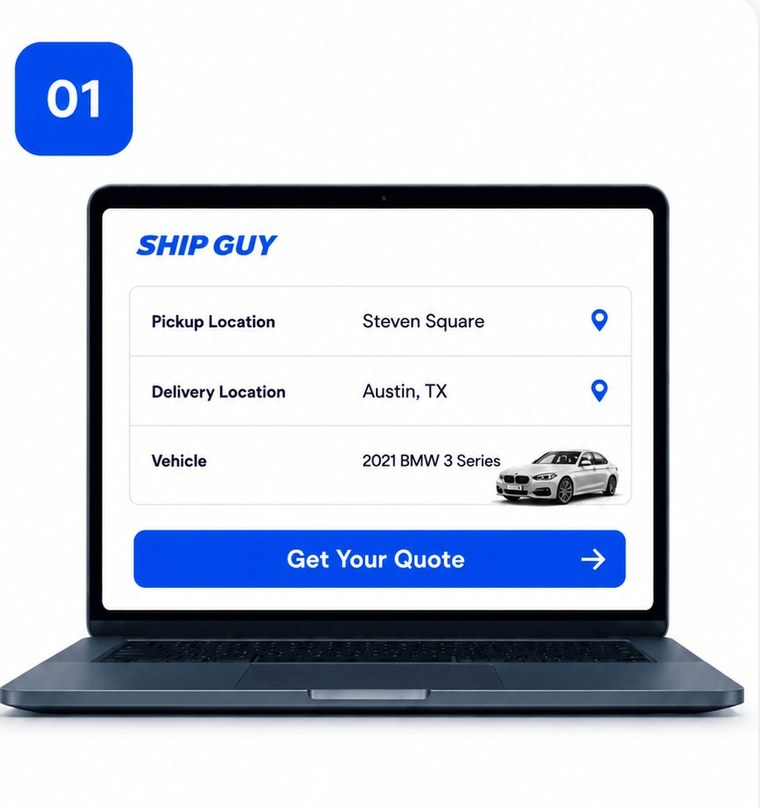
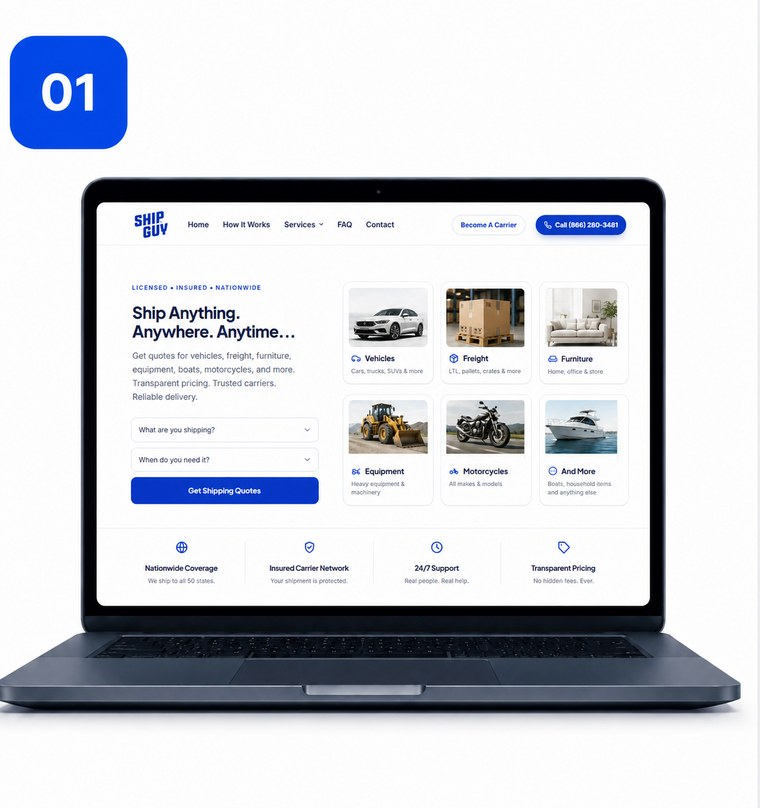
Add files via upload

Changed region(s): [[0.0, 0.0309, 0.9987, 0.8973]]

diff --git a/how-it-works.html b/how-it-works.html
@@ -713,7 +713,7 @@ body.ready .reveal{opacity:1;transform:none}
   <div class="container">
     <div class="steps-row">
       <article class="step-card">
-        <div class="step-illus"><img src="assets/step-01.jpg" alt="Step 1: enter pickup, delivery, and shipment details to get a free shipping quote" loading="lazy"></div>
+        <div class="step-illus"><img src="assets/step-01.jpg" alt="Step 1: start a free shipping quote on the Ship Guy website" loading="lazy"></div>
         <h3>1. Get Your Quote</h3>
         <p>Enter your pickup, delivery, and shipment details for a free, upfront quote.</p>
       </article>

diff --git a/index.html b/index.html
@@ -874,7 +874,7 @@ body.ready .reveal{opacity:1;transform:none}
 
     <div class="steps-row">
       <article class="step-card">
-        <div class="step-illus"><img src="assets/step-01.jpg" alt="Step 1: enter pickup, delivery, and vehicle on the Ship Guy quote form" loading="lazy"></div>
+        <div class="step-illus"><img src="assets/step-01.jpg" alt="Step 1: start a shipping quote on the Ship Guy website" loading="lazy"></div>
         <h3>Get Your Quote</h3>
         <p>Enter your pickup, delivery, and vehicle details to receive a fast, transparent shipping estimate.</p>
       </article>